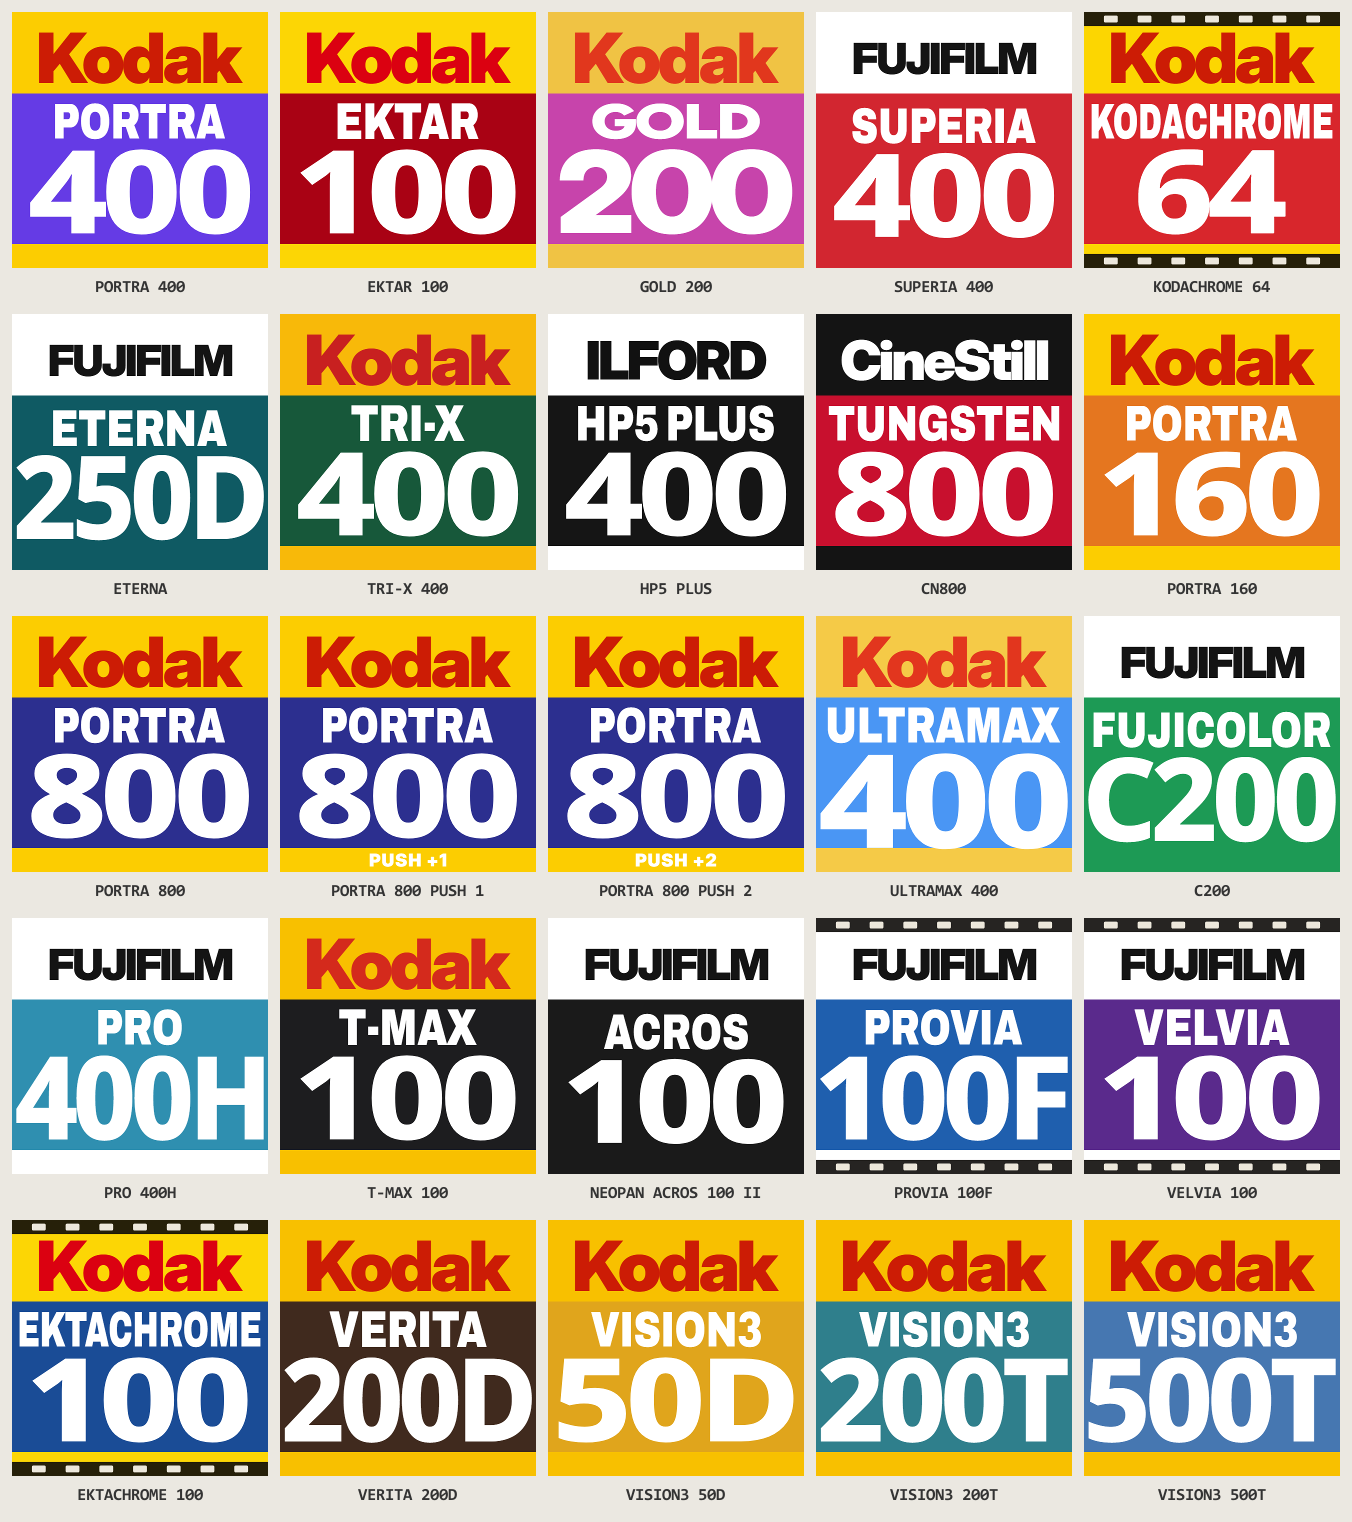
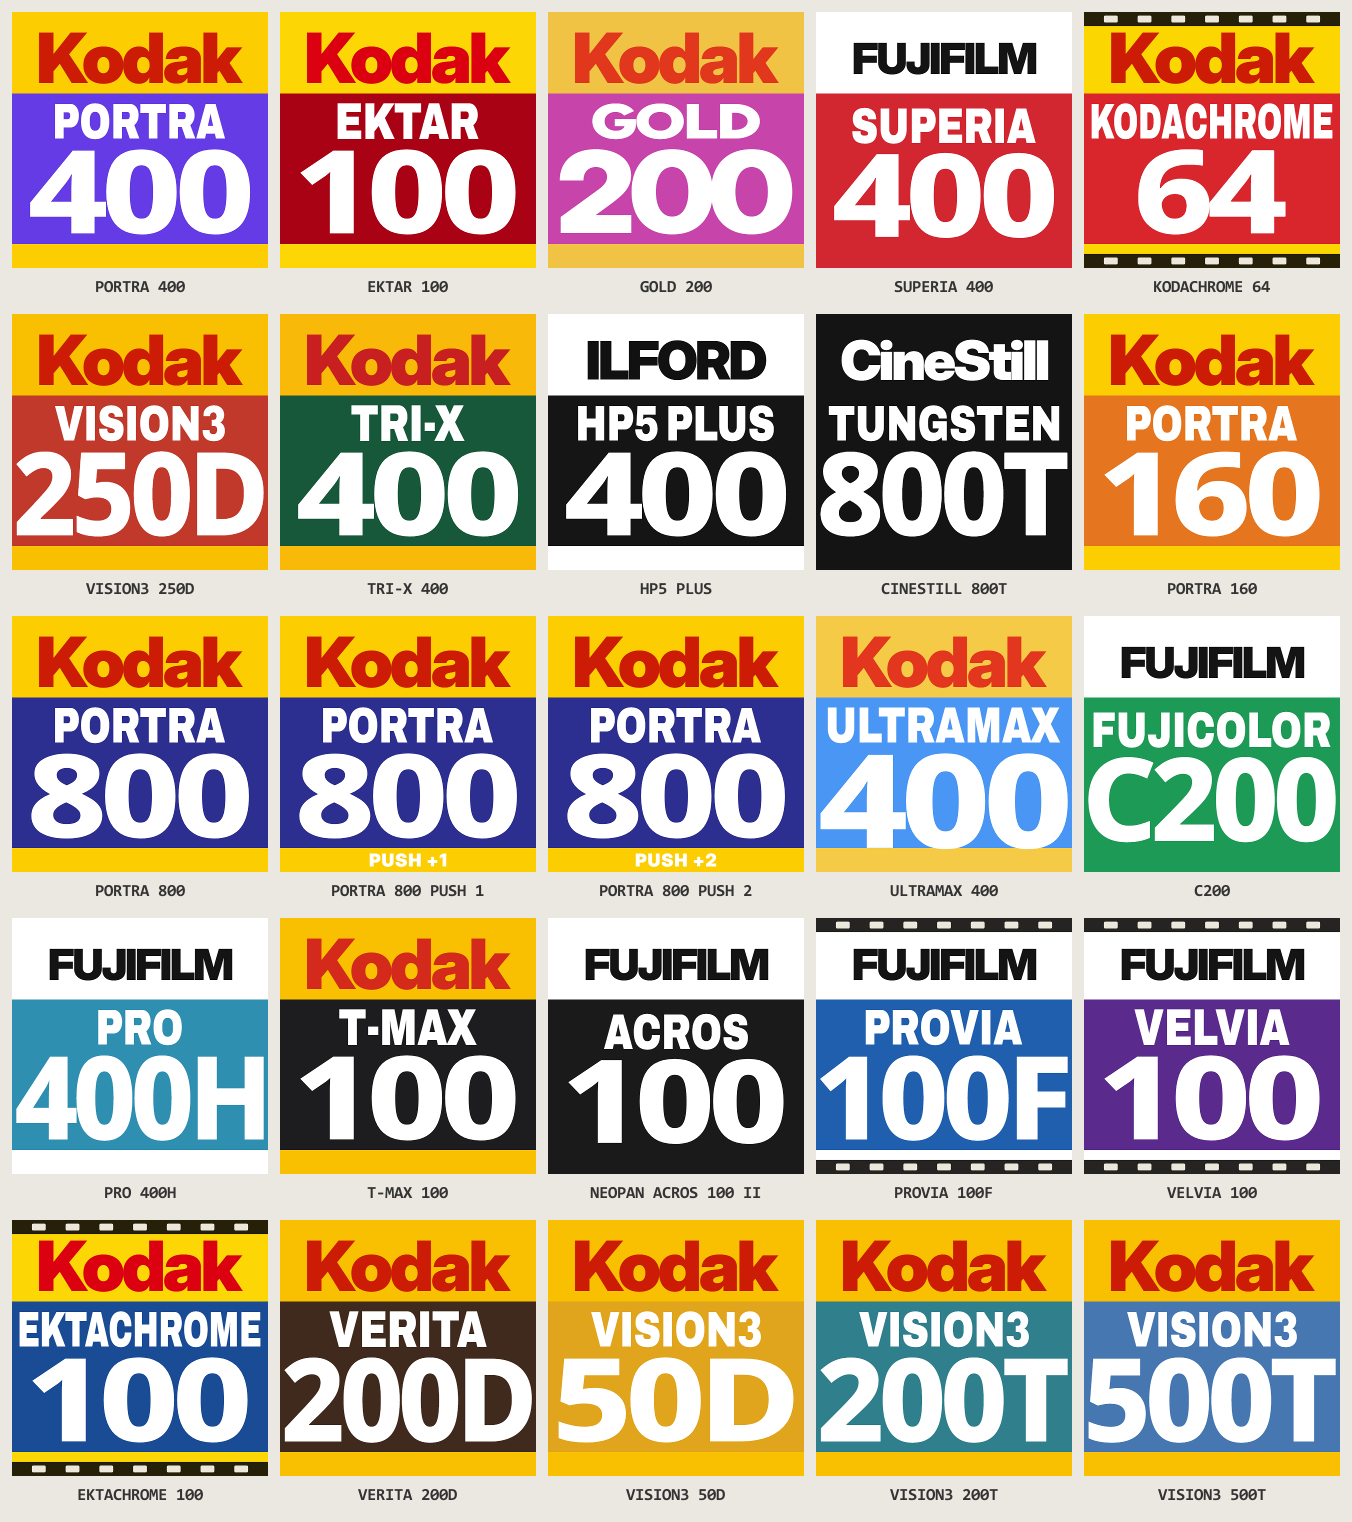
fix: 胶卷命名对齐引擎 profile——ETERNA→VISION3 250D、CN800→CINESTILL 800T
- ETERNA 是富士电影卷名，引擎 profile 实为柯达 Vision3 250D，更名为 VISION3 250D
- CN800 是乐魔型号名，引擎 profile 实为 CineStill 800T，更名为 CINESTILL 800T
- 两支旧名在 ROLL_TABLE 保留为兼容别名；封面重做（Kodak Vision3 红色版式 / CineStill 黑底 800T）
- GenSheet 更新，一览图重新生成

Changed region(s): [[0.0, 0.1853, 0.2175, 0.4014], [0.5902, 0.247, 0.8077, 0.4014]]

diff --git a/app/src/main/java/app/spektralab/engine/FilmStockMapper.kt b/app/src/main/java/app/spektralab/engine/FilmStockMapper.kt
@@ -46,10 +46,15 @@ object FilmStockMapper {
         // 旧键保留作兼容别名（老代码路径若仍传旧名不至于崩溃）。
         "KODACHROME 64"    to ("kodak_kodachrome_64"         to "kodak_endura_premier"),
         "CLASSIC CHROME"   to ("kodak_kodachrome_64"         to "kodak_endura_premier"),
+        // 早期误用了别的品牌名（Eterna 是富士电影卷、CN800 是乐魔的型号），
+        // 引擎实际 profile 分别是柯达 Vision3 250D 与 CineStill 800T——已更正；
+        // 旧键保留作兼容别名。
+        "VISION3 250D"     to ("kodak_vision3_250d"          to "kodak_2383"),
         "ETERNA"           to ("kodak_vision3_250d"          to "kodak_2383"),
         "TRI-X 400"        to ("kodak_tri_x_400"             to "ilford_multigrade_iv_rc"),
         "HP5 PLUS"         to ("ilford_hp5_plus_400"         to "ilford_multigrade_iv_rc"),
-        "CN800"            to ("cinestill_800t"               to "kodak_endura_premier"),
+        "CINESTILL 800T"   to ("cinestill_800t"              to "kodak_endura_premier"),
+        "CN800"            to ("cinestill_800t"              to "kodak_endura_premier"),
         // ---- 2025-11 扩充：引擎 catalog 全量 25 支胶卷 ----
         // 配对依据（三项交叉核对）：
         //   1) stock_catalog.json 的 type/use 字段（negative / positive / use=cine）

diff --git a/tools/genfilmcover.js b/tools/genfilmcover.js
@@ -35,11 +35,11 @@ const SPECS = [
   ['ic_film_provia100f',     FJ({ bodyColor: '#1f5fae', bottomBand: true, bottomColor: '#ffffff', name: 'PROVIA', number: '100F', perfs: true })],
   ['ic_film_velvia100',      FJ({ bodyColor: '#5a2a8c', bottomBand: true, bottomColor: '#ffffff', name: 'VELVIA', number: '100', perfs: true })],
   ['ic_film_acros100',       FJ({ bodyColor: '#1a1a1a', name: 'ACROS', number: '100' })],
-  ['ic_film_eterna',         FJ({ bodyColor: '#0f5a63', name: 'ETERNA', number: '250D' })],
+  ['ic_film_vision3_250d',   KODAK({ topColor: '#f8c000', bodyColor: '#c0392b', name: 'VISION3', number: '250D' })],
   ['ic_film_kodachrome64',   KODAK({ brandColor: '#cc1c05', topColor: '#fcd601', bodyColor: '#d8262c', name: 'KODACHROME', number: '64', perfs: true })],
   // --- 其他 ---
   ['ic_film_hp5',            IL({ bodyColor: '#151515', name: 'HP5 PLUS', number: '400' })],
-  ['ic_film_cn800',          CS({ bodyColor: '#c8102e', name: 'TUNGSTEN', number: '800' })],
+  ['ic_film_cinestill800t',  CS({ bodyColor: '#141414', name: 'TUNGSTEN', number: '800T' })],
 ];
 
 const TEMPLATE = process.argv[2] || 'kodak';   // kodak | box | cine | cinebox

diff --git a/app/src/main/java/com/filmcam/app/filter/FilmRollRepository.kt b/app/src/main/java/com/filmcam/app/filter/FilmRollRepository.kt
@@ -39,9 +39,9 @@ object FilmRollRepository {
             tag = "反转"
         ),
         FilmRoll(
-            name = "ETERNA",
-            iconResId = R.drawable.ic_film_eterna,
-            description = "电影感，低对比柔和",
+            name = "VISION3 250D",
+            iconResId = R.drawable.ic_film_vision3_250d,
+            description = "柯达电影卷，日光平衡柔和",
             tag = "电影"
         ),
         FilmRoll(
@@ -57,9 +57,9 @@ object FilmRollRepository {
             tag = "黑白"
         ),
         FilmRoll(
-            name = "CN800",
-            iconResId = R.drawable.ic_film_cn800,
-            description = "高感胶片，夜色氛围",
+            name = "CINESTILL 800T",
+            iconResId = R.drawable.ic_film_cinestill800t,
+            description = "钨丝灯平衡，夜色霓虹",
             tag = "彩色"
         ),
         // ---- 引擎 catalog 全量胶卷（与 FilmStockMapper.ROLL_TABLE 一一对应）----

diff --git a/tools/GenSheet.java b/tools/GenSheet.java
@@ -12,7 +12,7 @@ import java.util.List;
 public class GenSheet {
     static final String[] ROLLS = {
         "ic_film_portra400", "ic_film_ektar100", "ic_film_gold200", "ic_film_superia400",
-        "ic_film_kodachrome64", "ic_film_eterna", "ic_film_trix400", "ic_film_hp5", "ic_film_cn800",
+        "ic_film_kodachrome64", "ic_film_vision3_250d", "ic_film_trix400", "ic_film_hp5", "ic_film_cinestill800t",
         "ic_film_portra160", "ic_film_portra800", "ic_film_portra800p1", "ic_film_portra800p2",
         "ic_film_ultramax400", "ic_film_c200", "ic_film_pro400h", "ic_film_tmax100", "ic_film_acros100",
         "ic_film_provia100f", "ic_film_velvia100", "ic_film_ektachrome100", "ic_film_verita200d",
@@ -20,7 +20,7 @@ public class GenSheet {
     };
     static final String[] NAMES = {
         "PORTRA 400", "EKTAR 100", "GOLD 200", "SUPERIA 400", "KODACHROME 64",
-        "ETERNA", "TRI-X 400", "HP5 PLUS", "CN800", "PORTRA 160", "PORTRA 800",
+        "VISION3 250D", "TRI-X 400", "HP5 PLUS", "CINESTILL 800T", "PORTRA 160", "PORTRA 800",
         "PORTRA 800 PUSH 1", "PORTRA 800 PUSH 2", "ULTRAMAX 400", "C200", "PRO 400H",
         "T-MAX 100", "NEOPAN ACROS 100 II", "PROVIA 100F", "VELVIA 100",
         "EKTACHROME 100", "VERITA 200D", "VISION3 50D", "VISION3 200T", "VISION3 500T",
